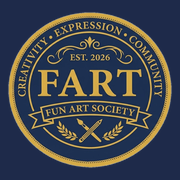
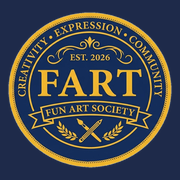
Badge v2: restore vibrance, enlarge hero seal, add masthead badge
Reprocessed from source with saturation/contrast restored (quantize kept,
90KB). Hero seal 216px with warm halo; 32px inline badge in every masthead.

diff --git a/assets/site.css b/assets/site.css
@@ -58,9 +58,11 @@ h1, h2 { font-family: var(--serif); font-weight: 560; line-height: 1.08; letter-
 .hero { padding: 4.2rem 0 3rem; text-align: center; border-bottom: 1px solid var(--hair); }
 .seal { width: 76px; height: 76px; margin: 0 auto 1.2rem; display: block; }
 img.seal {
-  width: 148px; height: auto; margin-bottom: 1.4rem;
-  filter: drop-shadow(0 6px 28px rgba(201, 133, 69, 0.28));
+  width: 216px; height: auto; margin-bottom: 1.5rem;
+  filter: drop-shadow(0 12px 40px rgba(234, 182, 118, 0.32)) drop-shadow(0 3px 10px rgba(0, 0, 0, 0.55));
 }
+.badge-inline { width: 32px; height: auto; vertical-align: -10px; margin-right: 0.55rem;
+  filter: drop-shadow(0 1px 4px rgba(0, 0, 0, 0.5)); }
 img.seal-sm { width: 96px; height: auto; margin: 0 auto 1.1rem; display: block;
   filter: drop-shadow(0 4px 18px rgba(201, 133, 69, 0.25)); }
 .kicker { color: var(--copper); }

diff --git a/404.html b/404.html
@@ -14,12 +14,12 @@
 </head>
 <body>
 <header class="top">
-  <a class="wordmark" href="./">Fun Art Society</a>
+  <a class="wordmark" href="./"><img class="badge-inline" src="assets/fas-badge.png" width="640" height="608" alt="">Fun Art Society</a>
   <span class="label mastnote">Ten Studios · One Roof</span>
 </header>
 <main>
   <section class="hero">
-    <img class="seal-sm" src="assets/fas-badge.png" width="480" height="456" alt="The Fun Art Society badge">
+    <img class="seal-sm" src="assets/fas-badge.png" width="640" height="608" alt="The Fun Art Society badge">
     <div class="kicker label">Filed under: misplaced</div>
     <h1>Well, this page <em>wandered off.</em></h1>
     <p class="lede">Probably chasing a crayon. <a href="./">Back to the studios</a>.</p>

diff --git a/index.html b/index.html
@@ -14,13 +14,13 @@
 </head>
 <body>
 <header class="top">
-  <a class="wordmark" href="./">Fun Art Society</a>
+  <a class="wordmark" href="./"><img class="badge-inline" src="assets/fas-badge.png" width="640" height="608" alt="">Fun Art Society</a>
   <span class="label mastnote">Ten Studios · One Roof</span>
   <nav class="label"><a href="#studios">Studios</a> <a href="#about">About</a> <a href="#contact">Contact</a></nav>
 </header>
 <main>
   <section class="hero">
-    <img class="seal" src="assets/fas-badge.png" width="480" height="456" alt="The Fun Art Society badge — Creativity, Expression, Community. Est. 2026.">
+    <img class="seal" src="assets/fas-badge.png" width="640" height="608" alt="The Fun Art Society badge — Creativity, Expression, Community. Est. 2026.">
     <div class="kicker label">By appointment to the easily delighted</div>
     <h1>Delightful digital things, <em>made with unreasonable care.</em></h1>
     <p class="lede">A private society of ten small studios — pixel art, fine editions, wicked puzzles, planners, icons, patterns, chiptunes, and art with crooked charm. Small batches. Fair prices. No fluff.</p>

diff --git a/brands/blipwave/index.html b/brands/blipwave/index.html
@@ -15,7 +15,7 @@
 </head>
 <body>
 <header class="top">
-  <a class="wordmark" href="../../">Fun Art Society</a>
+  <a class="wordmark" href="../../"><img class="badge-inline" src="../../assets/fas-badge.png" width="640" height="608" alt="">Fun Art Society</a>
   <span class="label mastnote">The Arcade · Studio № 08</span>
   <nav class="label"><a href="../../#studios">Studios</a> <a href="../../#about">About</a></nav>
 </header>

diff --git a/brands/coppergate/index.html b/brands/coppergate/index.html
@@ -15,7 +15,7 @@
 </head>
 <body>
 <header class="top">
-  <a class="wordmark" href="../../">Fun Art Society</a>
+  <a class="wordmark" href="../../"><img class="badge-inline" src="../../assets/fas-badge.png" width="640" height="608" alt="">Fun Art Society</a>
   <span class="label mastnote">The Press · Studio № 02</span>
   <nav class="label"><a href="../../#studios">Studios</a> <a href="../../#about">About</a></nav>
 </header>

diff --git a/brands/crookedcrayon/index.html b/brands/crookedcrayon/index.html
@@ -15,7 +15,7 @@
 </head>
 <body>
 <header class="top">
-  <a class="wordmark" href="../../">Fun Art Society</a>
+  <a class="wordmark" href="../../"><img class="badge-inline" src="../../assets/fas-badge.png" width="640" height="608" alt="">Fun Art Society</a>
   <span class="label mastnote">The Crayon Box · Studio № 10</span>
   <nav class="label"><a href="../../#studios">Studios</a> <a href="../../#about">About</a></nav>
 </header>

diff --git a/brands/fieldguide/index.html b/brands/fieldguide/index.html
@@ -15,7 +15,7 @@
 </head>
 <body>
 <header class="top">
-  <a class="wordmark" href="../../">Fun Art Society</a>
+  <a class="wordmark" href="../../"><img class="badge-inline" src="../../assets/fas-badge.png" width="640" height="608" alt="">Fun Art Society</a>
   <span class="label mastnote">The Field Office · Studio № 09</span>
   <nav class="label"><a href="../../#studios">Studios</a> <a href="../../#about">About</a></nav>
 </header>

diff --git a/brands/glyphvault/index.html b/brands/glyphvault/index.html
@@ -15,7 +15,7 @@
 </head>
 <body>
 <header class="top">
-  <a class="wordmark" href="../../">Fun Art Society</a>
+  <a class="wordmark" href="../../"><img class="badge-inline" src="../../assets/fas-badge.png" width="640" height="608" alt="">Fun Art Society</a>
   <span class="label mastnote">The Vault · Studio № 05</span>
   <nav class="label"><a href="../../#studios">Studios</a> <a href="../../#about">About</a></nav>
 </header>

diff --git a/brands/gridledger/index.html b/brands/gridledger/index.html
@@ -15,7 +15,7 @@
 </head>
 <body>
 <header class="top">
-  <a class="wordmark" href="../../">Fun Art Society</a>
+  <a class="wordmark" href="../../"><img class="badge-inline" src="../../assets/fas-badge.png" width="640" height="608" alt="">Fun Art Society</a>
   <span class="label mastnote">The Drafting Desk · Studio № 04</span>
   <nav class="label"><a href="../../#studios">Studios</a> <a href="../../#about">About</a></nav>
 </header>

diff --git a/brands/motifmill/index.html b/brands/motifmill/index.html
@@ -15,7 +15,7 @@
 </head>
 <body>
 <header class="top">
-  <a class="wordmark" href="../../">Fun Art Society</a>
+  <a class="wordmark" href="../../"><img class="badge-inline" src="../../assets/fas-badge.png" width="640" height="608" alt="">Fun Art Society</a>
   <span class="label mastnote">The Mill · Studio № 07</span>
   <nav class="label"><a href="../../#studios">Studios</a> <a href="../../#about">About</a></nav>
 </header>

diff --git a/brands/pixelforge/index.html b/brands/pixelforge/index.html
@@ -15,7 +15,7 @@
 </head>
 <body>
 <header class="top">
-  <a class="wordmark" href="../../">Fun Art Society</a>
+  <a class="wordmark" href="../../"><img class="badge-inline" src="../../assets/fas-badge.png" width="640" height="608" alt="">Fun Art Society</a>
   <span class="label mastnote">The Forge · Studio № 01</span>
   <nav class="label"><a href="../../#studios">Studios</a> <a href="../../#about">About</a></nav>
 </header>

diff --git a/brands/sphinx/index.html b/brands/sphinx/index.html
@@ -15,7 +15,7 @@
 </head>
 <body>
 <header class="top">
-  <a class="wordmark" href="../../">Fun Art Society</a>
+  <a class="wordmark" href="../../"><img class="badge-inline" src="../../assets/fas-badge.png" width="640" height="608" alt="">Fun Art Society</a>
   <span class="label mastnote">The Puzzle Room · Studio № 03</span>
   <nav class="label"><a href="../../#studios">Studios</a> <a href="../../#about">About</a></nav>
 </header>